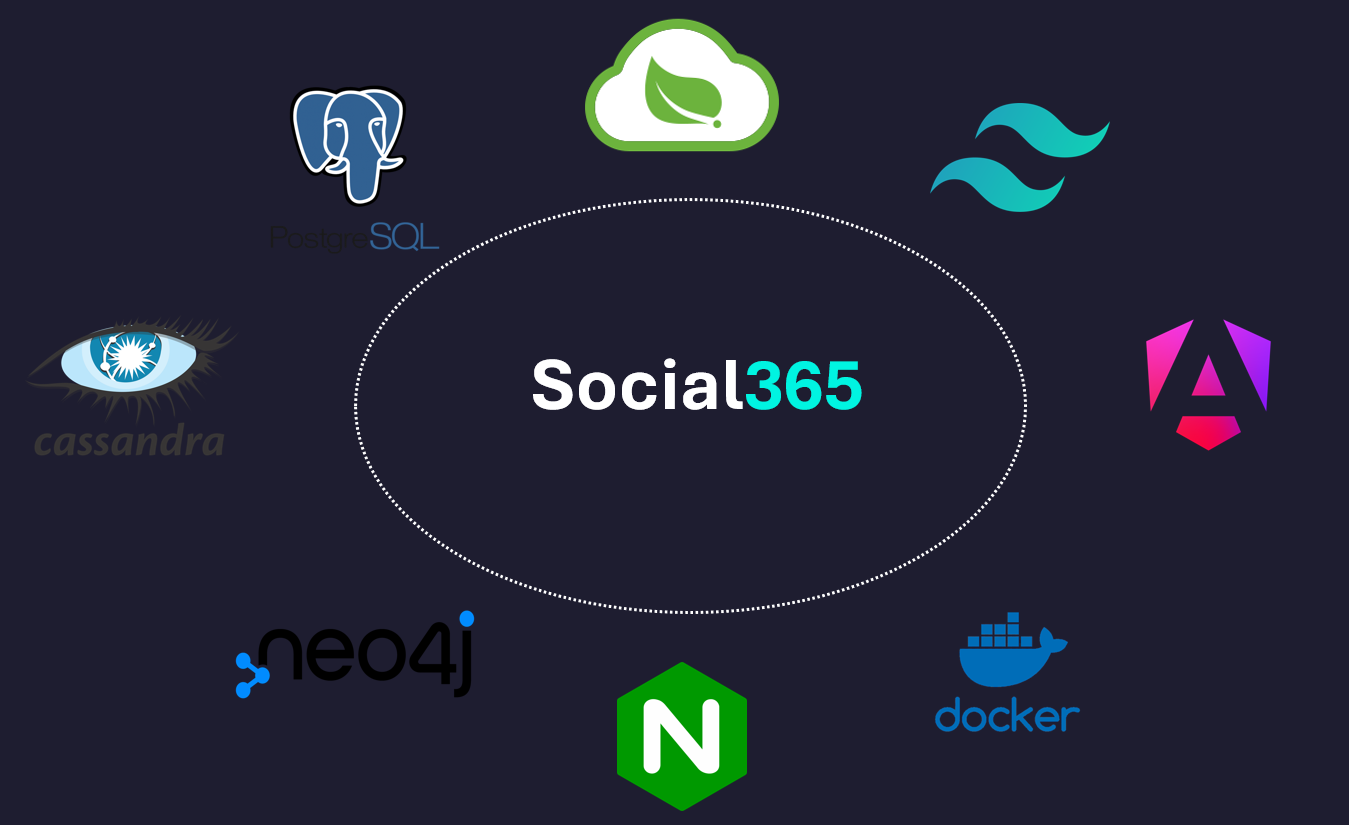
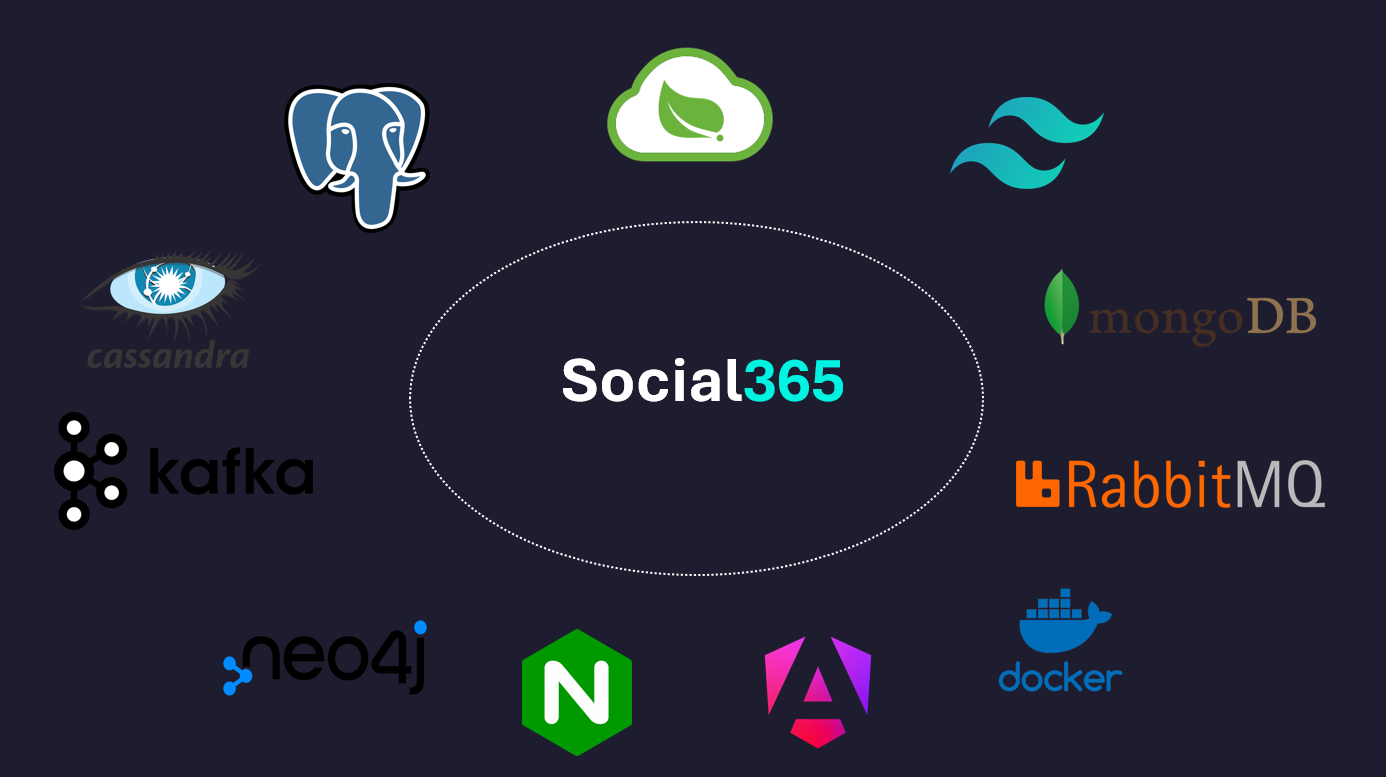
Updated diagrams, tech-stack diagram and readme of notifications service

diff --git a/services/notifications/notifications-service/README.md b/services/notifications/notifications-service/README.md
@@ -8,6 +8,10 @@ The following diagram shows what events are sent to the `notifications` topic in
 
 ![Kafka Notifications Diagram](diagrams/notifications-kafka.drawio.png)
 
+Below you can see which services produce notifications.
+
+![Kafka Producers Diagram](diagrams/kafka-notifications.drawio.png)
+
 ## MongoDB Schema Diagram
 
 The following diagram shows the schema for the `notifications` collection in MongoDB.
